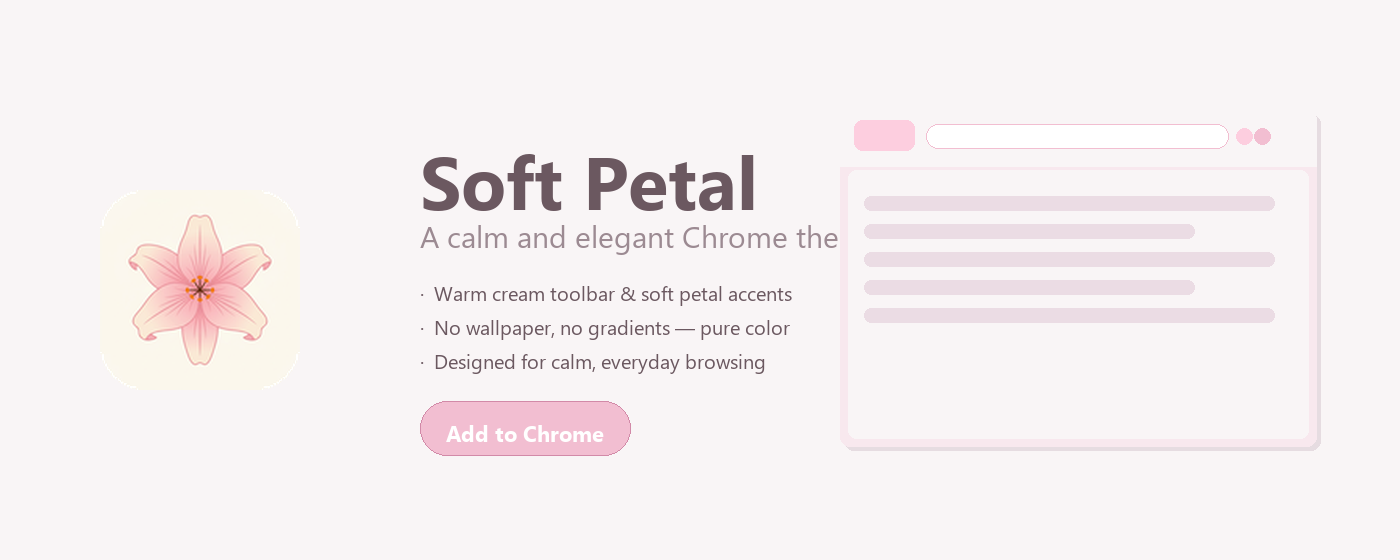
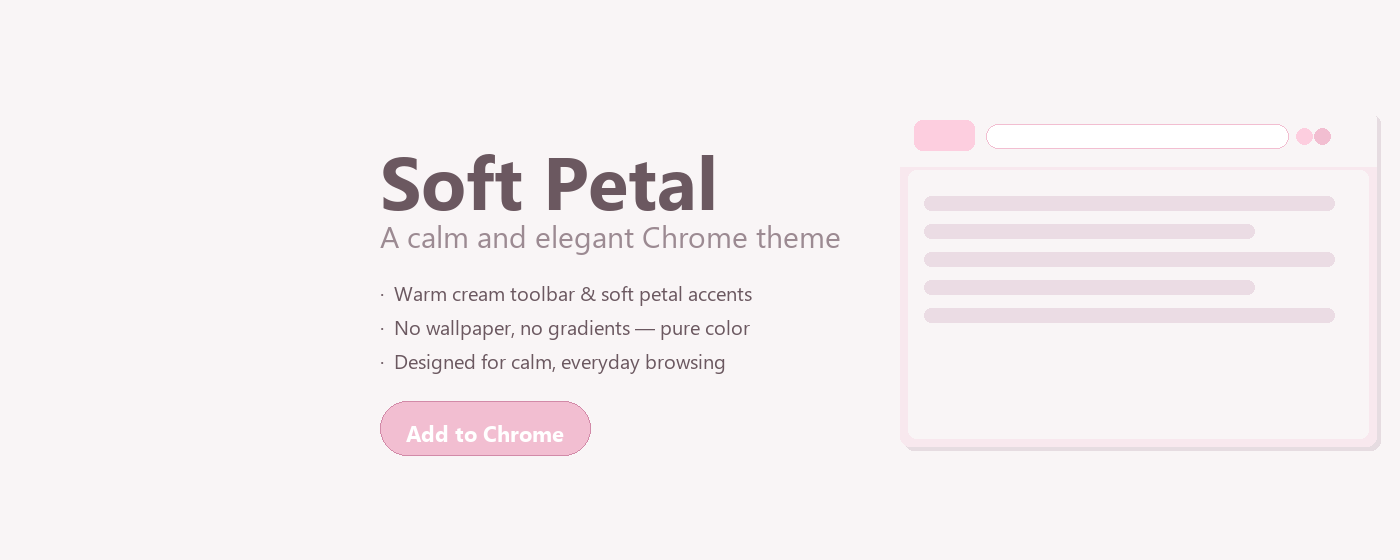
1400x560 promo 的浏览器 mockup 右移，增大与文字的间距

diff --git a/scripts/generate-promo.py b/scripts/generate-promo.py
@@ -177,14 +177,11 @@ def generate_1400x560():
     img = Image.new("RGB", (w, h), CREAM)
     d = ImageDraw.Draw(img)
 
-    # Logo on the far left as decoration
-    _paste_logo(img, 200, h // 2 + 10, 200)
-
     # Text block: left-center
     title_font = _get_font(74, bold=True)
     title = "Soft Petal"
     tw, th = _text_size(d, title, title_font)
-    title_x = 420
+    title_x = 380
     title_y = 130
     d.text((title_x, title_y), title, font=title_font, fill=TEXT)
 
@@ -220,7 +217,7 @@ def generate_1400x560():
     d.text((btn_x + (btn_w - cw) // 2, btn_y + (btn_h - ch) // 2 - 1), cta, font=cta_font, fill=(255, 255, 255))
 
     # Browser mockup on the right
-    _draw_browser_mock(d, w - 560, 110, 480, 340)
+    _draw_browser_mock(d, w - 500, 110, 480, 340)
 
     # Safety checks
     assert btn_y + btn_h < h - 12, "CTA bottom overflow on 1400x560"
